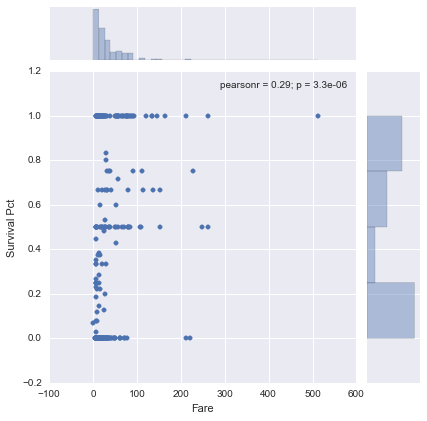
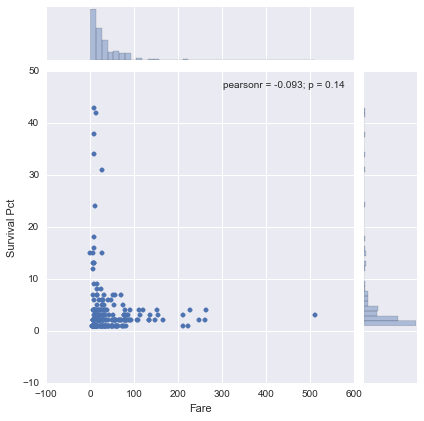
Added further graphs to identify potentially good predictors

diff --git a/Code_Snippets.py b/Code_Snippets.py
@@ -78,3 +78,72 @@ Res = pd.DataFrame(tmp[1:],columns=tmp[0])
 
 sns.jointplot(x='Fare', y='Survival Pct', data=Res).savefig('Plots/JointPlot_surv_by_fare.png')
 sns.jointplot(x='Fare', y='Survival Pct', data=Res, kind='hex',gridsize=10).savefig('Plots/JointPlot_surv_by_fare_hex.png')
+
+
+#Perform a binary logistic regression to indentify the prediction quality of features
+from sklearn import preprocessing
+from sklearn.linear_model import LogisticRegression
+from sklearn.cross_validation import train_test_split
+
+#Check for possible adaption to increase sample sizes
+training.Survived.value_counts()
+
+sns.countplot(x='Survived',data=training,palette='hls')
+plt.title('Absolute Survivors and Deceased')
+plt.ylabel('Count')
+plt.savefig('Plots/Survived_counts.png')
+
+# Categories ['PassengerId', 'Survived', 'Pclass', 'Name', 'Sex', 'Age', 'SibSp','Parch', 'Ticket', 'Fare', 'Cabin', 'Embarked'] 
+# Examine 'Survived' and consider first ['Pclass', 'Sex', 'Age', 'Fare']
+
+for cat in ['Pclass', 'Sex', 'Age', 'Fare']:
+    print(training[cat].unique())
+
+#Analyse absolut survival numbers by class
+pd.crosstab(training.Pclass,training.Survived).plot(kind='bar')
+plt.title('Survival Number by Passenger Class')
+plt.xlabel('Passenger Class')
+plt.ylabel('Number of Survivors')
+plt.savefig('Plots/BarPlot_surv_by_class_abs.png')
+
+#Show stacked as percentage
+table=pd.crosstab(training.Pclass,training.Survived)
+table.div(table.sum(1).astype(float), axis=0).plot(kind='bar', stacked=True)
+plt.title('Stacked Bar Chart Survival by Class')
+plt.xlabel('Passgenger Class')
+plt.ylabel('Proportion')
+plt.savefig('Plots/StackedBarPlot_surv_by_class_pct.png')
+
+#Create Passenger Age Histogram
+training.Age.hist()
+plt.title('Histogram of Age')
+plt.xlabel('Age')
+plt.ylabel('Frequency')
+plt.savefig('Plots/Histogram_Age.png')
+
+#Analyse absolut survival numbers by Age
+#First create age cohorts in intervalls of ten years
+tmp_df=training[['Age','Survived']]
+tmp_age_groups=pd.DataFrame([(tmp_df['Age'] // 10) * 10]).transpose()
+tmp_age_groups.columns=['Age Group']
+tmp_df=pd.concat([tmp_df,tmp_age_groups],axis=1)
+
+pd.crosstab(tmp_df['Age Group'],tmp_df['Survived']).plot(kind='bar')
+plt.title('Survival Number by Age Groups')
+plt.xlabel('Age Group')
+plt.ylabel('Number of Survivors')
+plt.savefig('Plots/BarPlot_surv_by_Age_Groups_abs.png')
+
+
+
+
+
+
+
+
+
+
+
+
+
+
